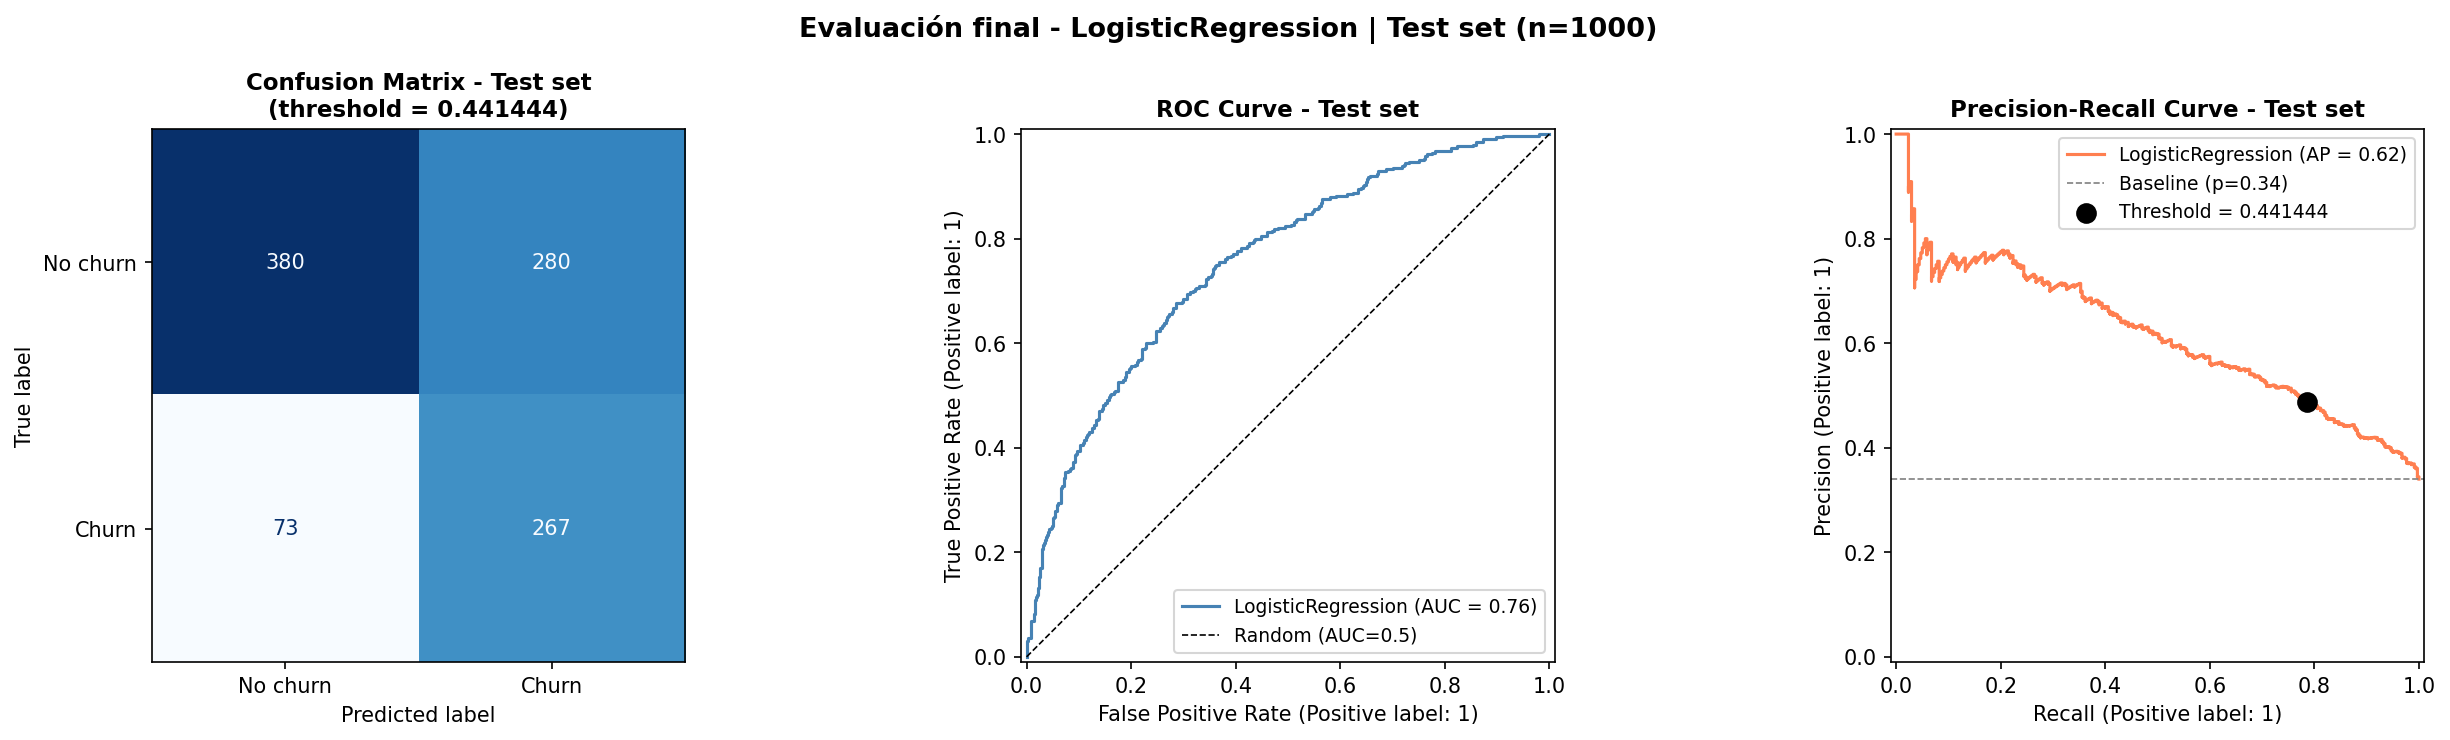
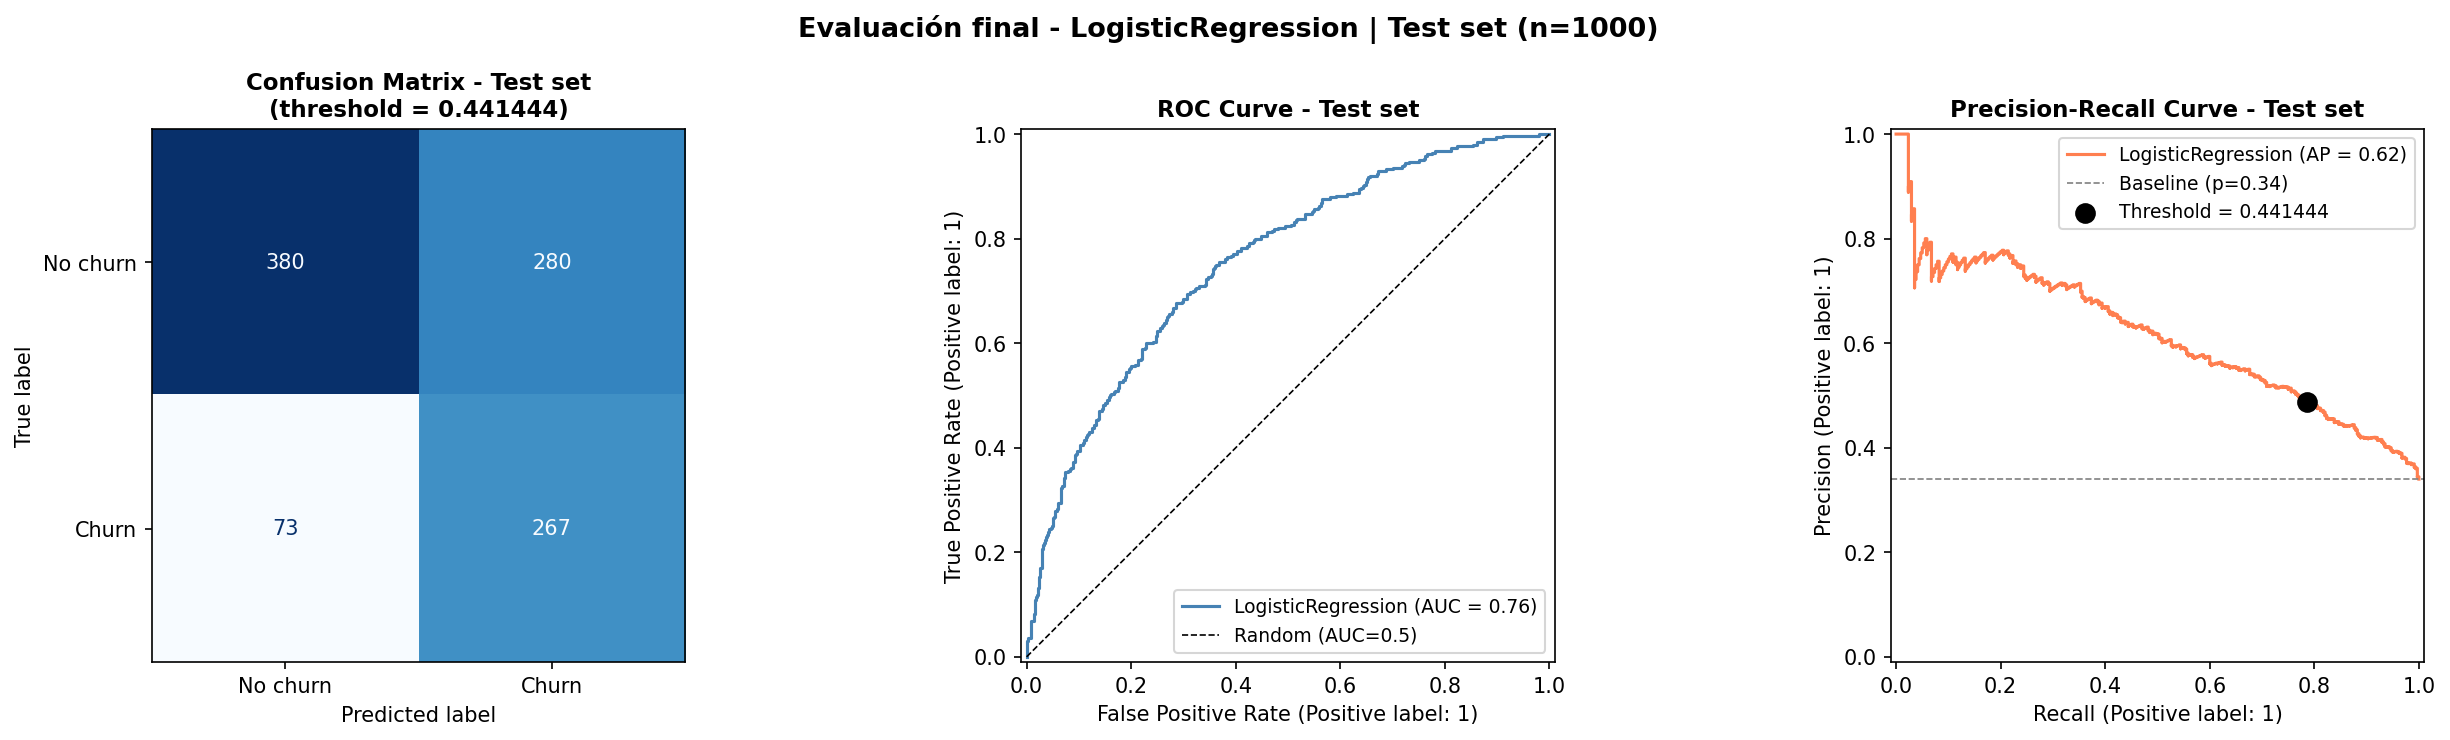
fix: entrega autocontenida, el modelo se versiona en git
- cache false en dvc.yaml, el joblib deja de depender de dvc pull
- make y ci sin dvc pull, el ci pasa a ser bloqueante con la suite completa
- escritura de metricas independiente de plataforma (LF y paths posix)

diff --git a/src/evaluate.py b/src/evaluate.py
@@ -119,7 +119,7 @@ def evaluate_on_test(
     assert len(y_pred) == len(y_test), "Cantidad de predicciones no coincide con test"
 
     metrics = {
-        "model": str(model_path),
+        "model": model_path.as_posix(),
         "model_name": model_name,
         "threshold": threshold,
         "test_size": len(y_test),
@@ -131,8 +131,9 @@ def evaluate_on_test(
         "support_class1": int(report["1"]["support"]),
     }
 
-    with open(METRICS_PATH, "w") as f:
+    with open(METRICS_PATH, "w", newline="\n") as f:
         json.dump(metrics, f, indent=2)
+        f.write("\n")
     print(f"\n metricas guardadas en {METRICS_PATH}")
 
     return metrics

diff --git a/src/train.py b/src/train.py
@@ -336,8 +336,9 @@ def run_experiment() -> None:
 
         # Log comparativa de los 3 modelos como artifact JSON
         metrics_path = REPORTS_DIR / "train_metrics.json"
-        with open(metrics_path, "w") as f:
+        with open(metrics_path, "w", newline="\n") as f:
             json.dump(metrics_payload, f, indent=2)
+            f.write("\n")
         mlflow.log_artifact(str(metrics_path))
 
     # smoke test del artefacto serializado
